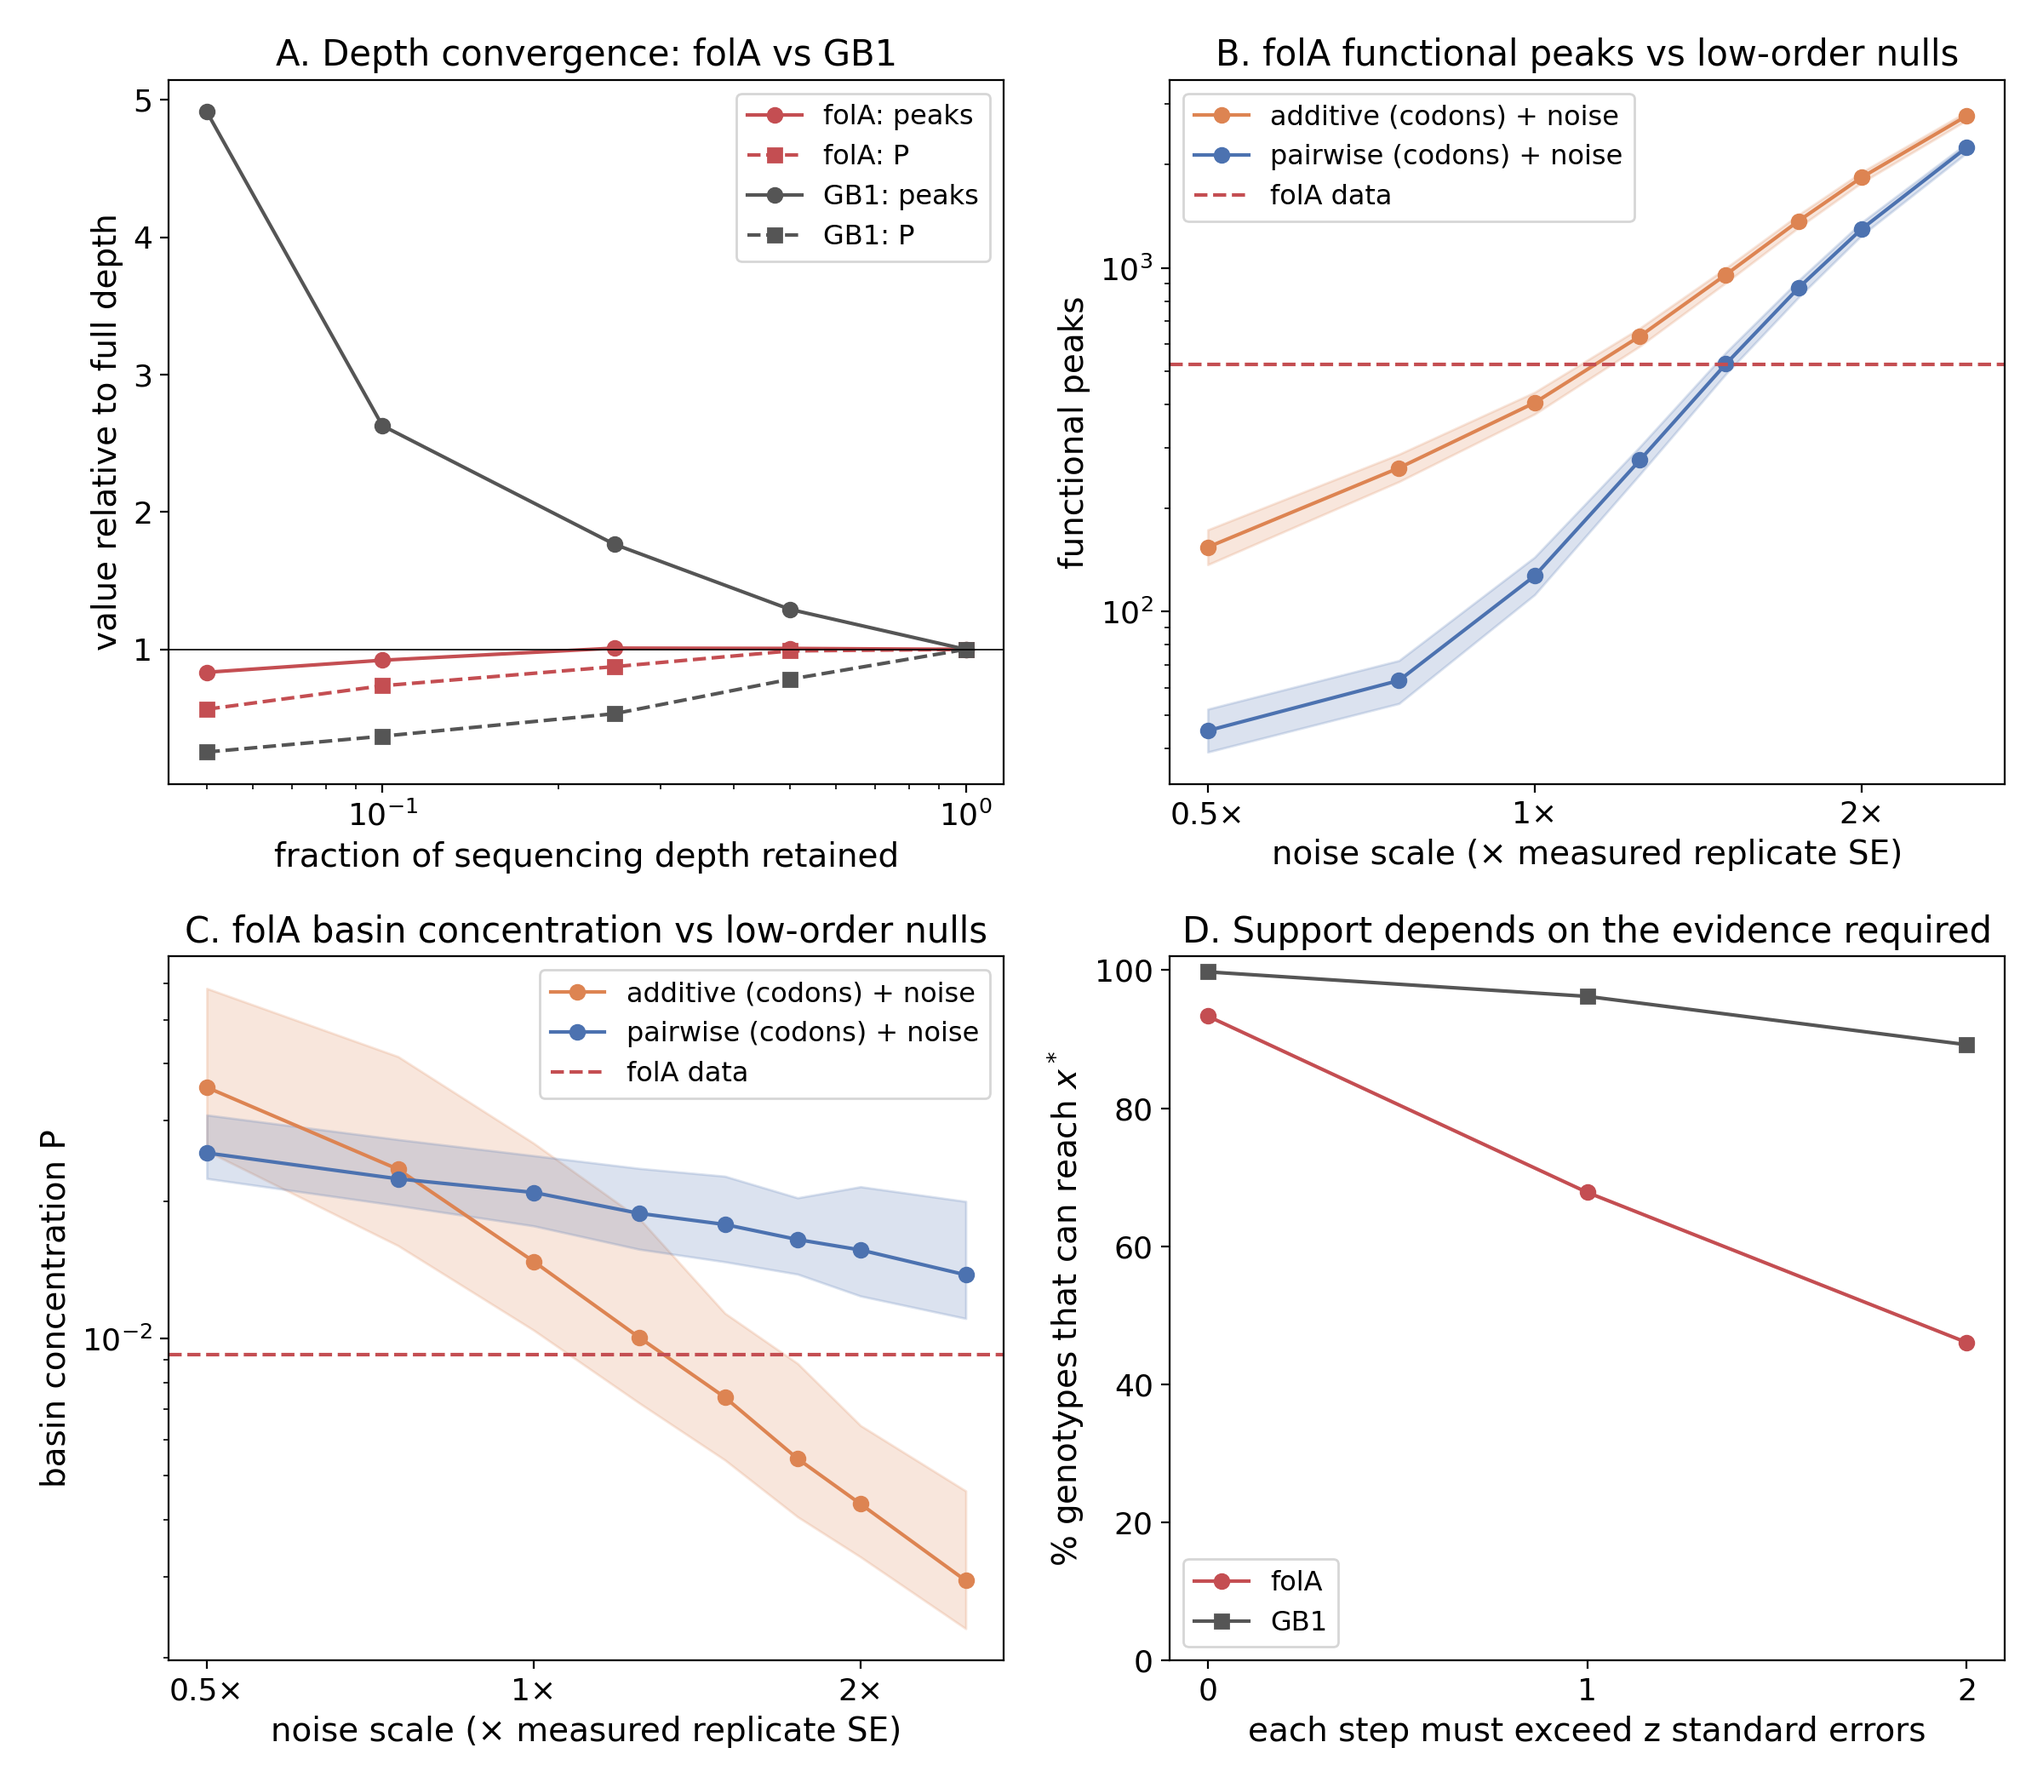
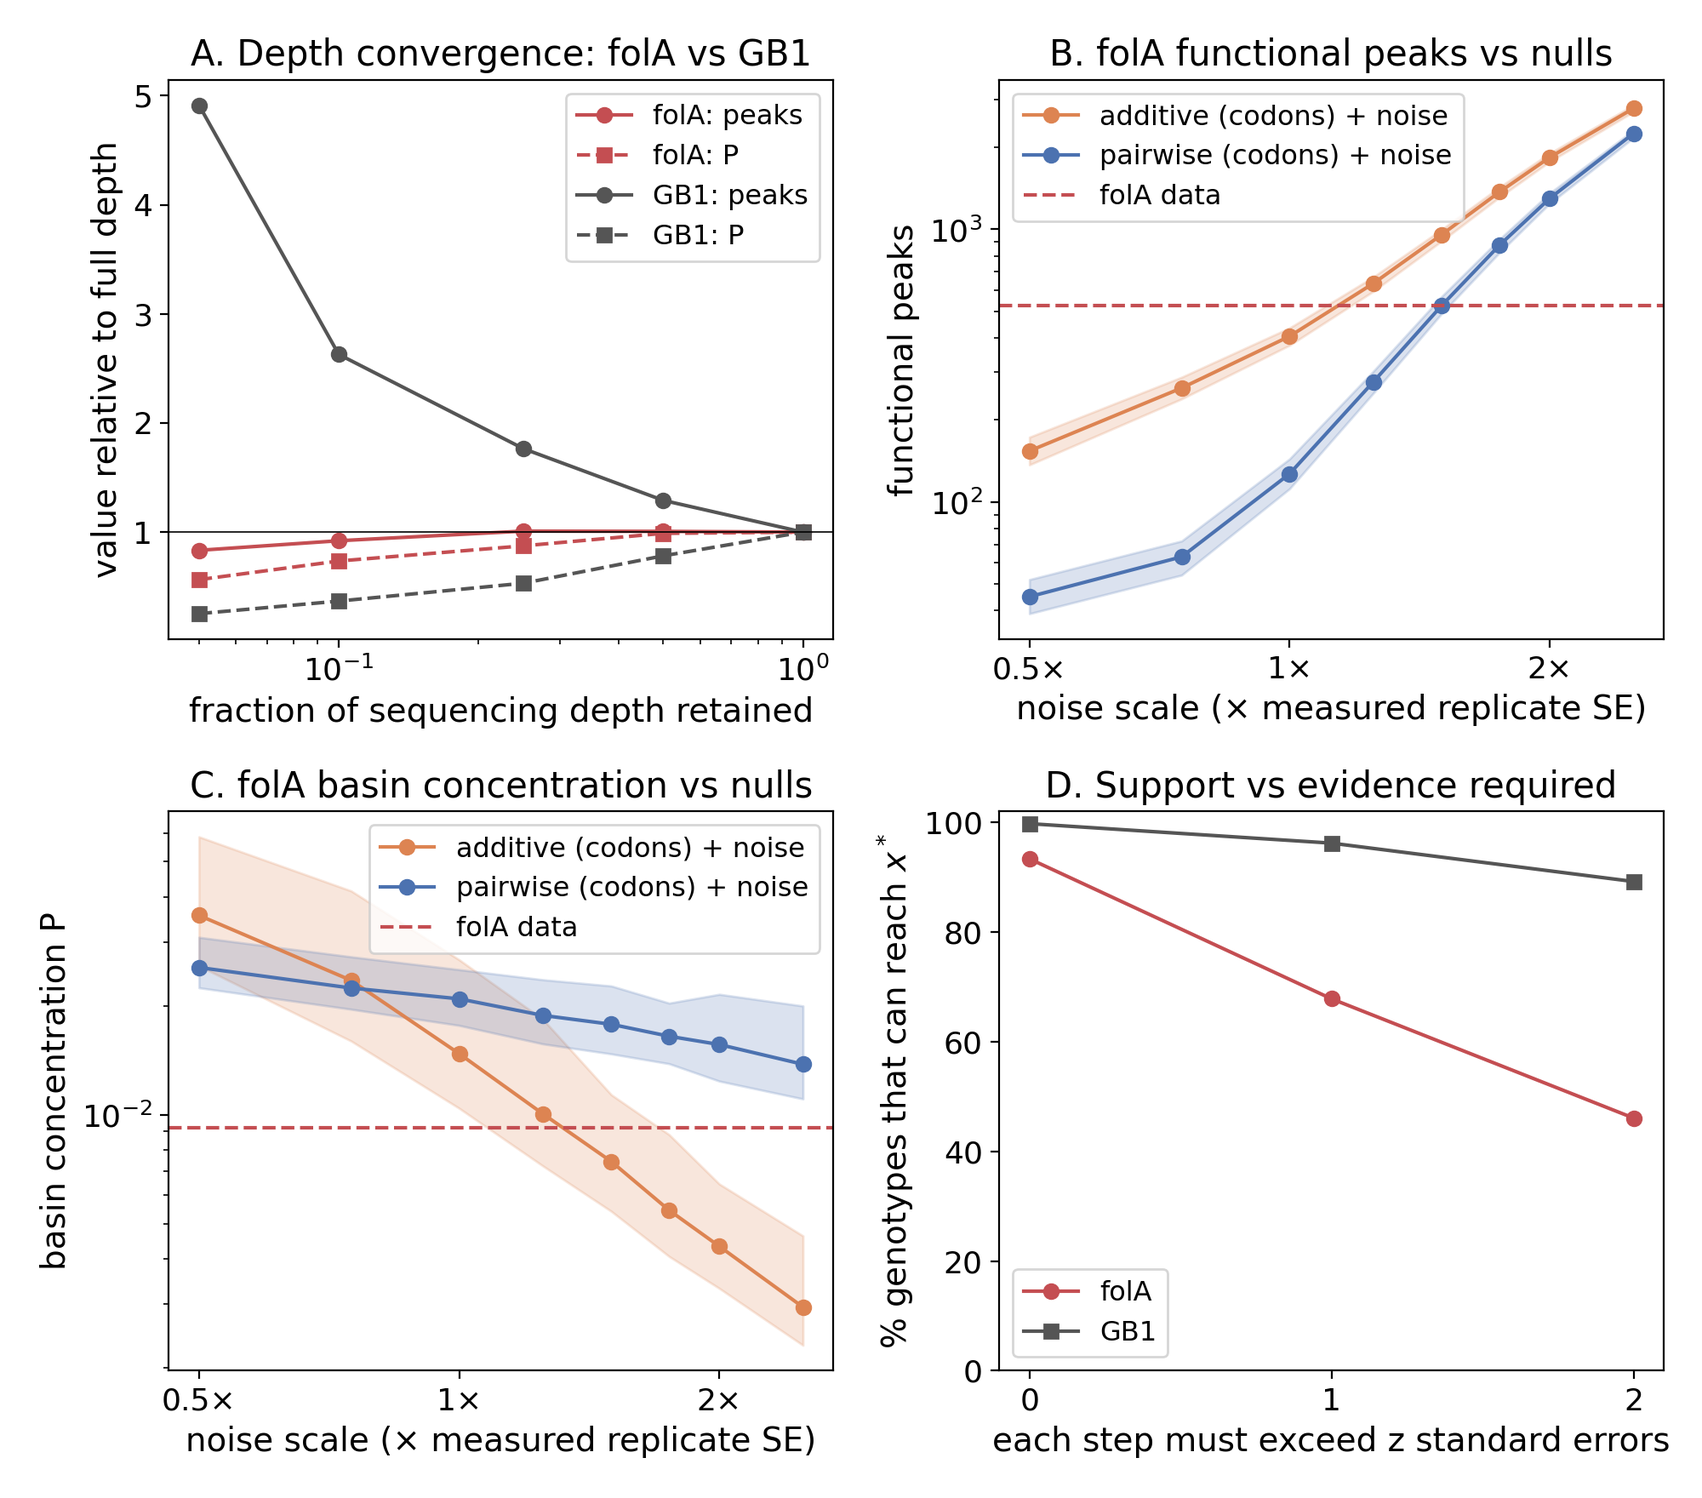
Figures: 10-inch canvas for print legibility, shorter panel titles, legend headroom

diff --git a/fig_folA.py b/fig_folA.py
@@ -7,7 +7,7 @@ A = json.load(open('robust_folA_results.json')); G = json.load(open('robust_resu
 GD = json.load(open('robust_depth_results.json')); GR = json.load(open('robust_folA_grid_results.json'))
 C = {'1':'#DD8452', '2':'#4C72B0', 'data':'#C44E52', 'gb1':'#555555'}
 cs = GR['scales']
-fig, ax = plt.subplots(2, 2, figsize=(12, 10.5))
+fig, ax = plt.subplots(2, 2, figsize=(10, 8.8))
 
 # A: thinning, folA vs GB1 (peaks relative to full depth)
 for src, rows, col, name in [('folA', A['thin'], C['data'], 'folA'), ('GB1', GD['thin'], C['gb1'], 'GB1')]:
@@ -19,8 +19,8 @@ ax[0,0].set_xlabel('fraction of sequencing depth retained'); ax[0,0].set_ylabel(
 ax[0,0].legend(); ax[0,0].set_title('A. Depth convergence: folA vs GB1')
 
 # B, C: null versus noise scale
-for panel, key, ylab, title in [(ax[0,1], 'func_peaks', 'functional peaks', 'B. folA functional peaks vs low-order nulls'),
-                                (ax[1,0], 'P', 'basin concentration P', 'C. folA basin concentration vs low-order nulls')]:
+for panel, key, ylab, title in [(ax[0,1], 'func_peaks', 'functional peaks', 'B. folA functional peaks vs nulls'),
+                                (ax[1,0], 'P', 'basin concentration P', 'C. folA basin concentration vs nulls')]:
     for k, name in [('1','additive (codons)'), ('2','pairwise (codons)')]:
         reps = [GR['null'][k][str(float(c))][key] for c in cs]
         m = [np.median(v) for v in reps]; lo = [np.quantile(v, .025) for v in reps]; hi = [np.quantile(v, .975) for v in reps]
@@ -36,5 +36,5 @@ ax[1,1].plot(zs, [100*A['data'][str(z)]['support'] for z in zs], 'o-', color=C['
 ax[1,1].plot(zs, [100*G['models']['4'][str(z)]['support'] for z in zs], 's-', color=C['gb1'], label='GB1')
 ax[1,1].set_xticks(zs); ax[1,1].set_xlabel('each step must exceed z standard errors')
 ax[1,1].set_ylabel('% genotypes that can reach $x^*$'); ax[1,1].set_ylim(0, 102)
-ax[1,1].legend(); ax[1,1].set_title('D. Support depends on the evidence required')
+ax[1,1].legend(); ax[1,1].set_title('D. Support vs evidence required')
 plt.tight_layout(); plt.savefig('fig_folA.png', dpi=200); print('saved')

diff --git a/fig_noise.py b/fig_noise.py
@@ -5,7 +5,7 @@ plt.rcParams.update({'font.size':15,'axes.titlesize':15,'axes.labelsize':14,
                      'xtick.labelsize':13,'ytick.labelsize':13,'legend.fontsize':11.5})
 R = json.load(open('robust_results.json')); D = json.load(open('robust_depth_results.json'))
 C = {'2':'#4C72B0', '3':'#55A868', 'data':'#C44E52'}
-fig, ax = plt.subplots(2, 2, figsize=(12, 10.5))
+fig, ax = plt.subplots(2, 2, figsize=(10, 8.8))
 
 # A: support by model order (noise-free fits, z = 0) and data at three significance thresholds
 ks = ['1','2','3','4']; lab = ['additive','pairwise','three-way','full (data)']
@@ -33,6 +33,7 @@ for k, name in [('2','pairwise'), ('3','three-way')]:
     ax[1,0].axhline(inf['peaks'], ls=':', color=C[k], lw=1)
 ax[1,0].plot([1], [R['models']['4']['0']['peaks']], '*', ms=14, color=C['data'], label='GB1 data (depth ×1)')
 ax[1,0].set_xlabel('sequencing depth (× actual)'); ax[1,0].set_ylabel('number of peaks')
+lo, hi = ax[1,0].get_ylim(); ax[1,0].set_ylim(lo, hi*3)
 ax[1,0].legend(loc='upper right'); ax[1,0].set_title('C. Counting noise inflates peak counts')
 
 # D: null distributions of P
@@ -42,5 +43,6 @@ for key, name, col in [('2','pairwise + noise',C['2']), ('3','three-way + noise'
 ax[1,1].hist([r['P'] for r in R['bootstrap']['0']], bins=bins, histtype='step', lw=2, color=C['data'], label='GB1 bootstrap (spread only)')
 ax[1,1].axvline(R['models']['4']['0']['P'], color=C['data'], ls='--', label='GB1 point estimate')
 ax[1,1].set_xlabel('basin concentration P'); ax[1,1].set_ylabel('replicates')
-ax[1,1].legend(); ax[1,1].set_title('D. Data P lies inside the low-order nulls')
+ax[1,1].set_ylim(0, ax[1,1].get_ylim()[1]*1.7)
+ax[1,1].legend(loc='upper right'); ax[1,1].set_title('D. Data P lies inside the low-order nulls')
 plt.tight_layout(); plt.savefig('fig_noise.png', dpi=200); print('saved')
